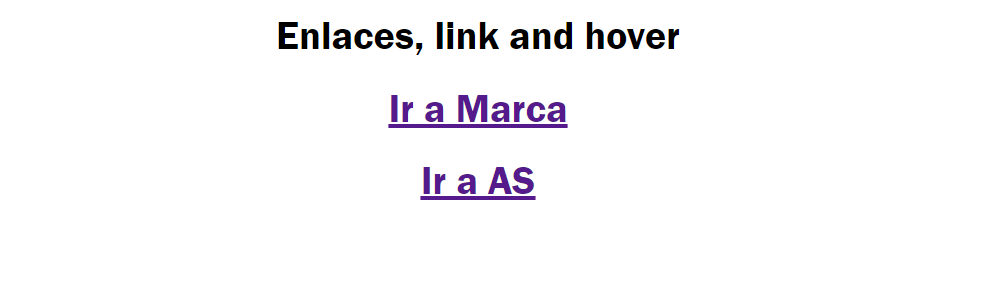
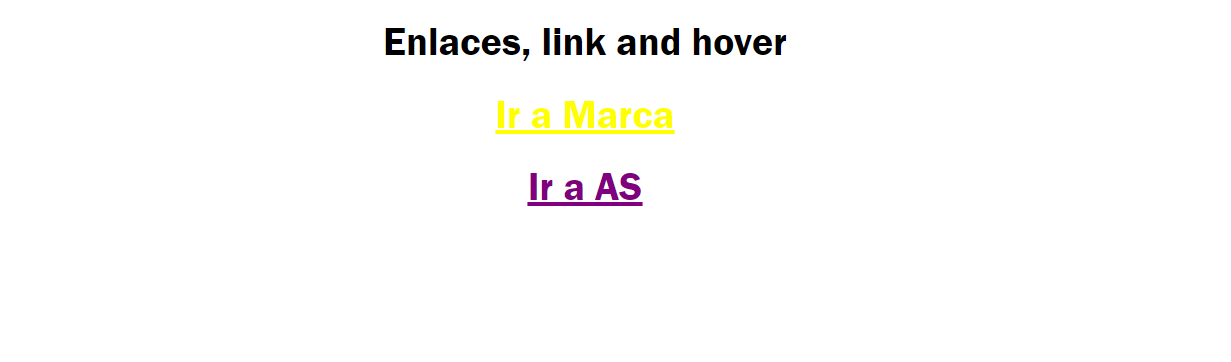
Taller terminado

Changed region(s): [[0.3694, 0.2784, 0.5849, 0.7113], [0.2771, 0.0619, 0.6773, 0.1856]]

diff --git a/punto-9/index-9.html b/punto-9/index-9.html
@@ -1,0 +1,40 @@
+<!DOCTYPE html>
+<html lang="en">
+
+<head>
+    <meta charset="UTF-8">
+    <meta name="viewport" content="width=device-width, initial-scale=1.0">
+    <title>Document</title>
+    <link rel="stylesheet" href="styles/punto-9-styles.css">
+</head>
+
+<body>
+    <div class="Tabla"></div>
+
+    <table border="1">
+        <tr>
+            <th><i>Edad</i></th>
+            <th><i>Peso</i></th>
+        </tr>
+
+        <tr>
+            <td>40</td>
+            <td>78</td>
+        </tr>
+        <tr>
+            <td>53</td>
+            <td>76</td>
+        </tr>
+        <tr>
+            <td colspan="2"> <small>el momento en que entiendo verdaderamente a mi enemigo, en el momento en el que le
+                entiendo lo suficientemente bien <br> como para derrotarle, entonces, en ese preciso instante,tambien le
+                quiero</small> </th>
+        </tr>
+    </div>
+
+    </table>
+
+
+</body>
+
+</html>

diff --git a/punto-6/index-6.html b/punto-6/index-6.html
@@ -9,13 +9,13 @@
 <body>
         <h1>Enlaces, link and hover</h1>
     
-        <a href="https://www.marca.com/">
+        <a style="color: yellow;" href="https://www.marca.com/">
             <div class="Enlace__1"></div>
             <h1>Ir a Marca</h1>
-    </a>
+        </a>
     </div>
     <div class="Enlace__2">
-        <a href="https://colombia.as.com/"><h1>Ir a AS</h1>
+        <a style="color: purple;" href="https://colombia.as.com/"><h1>Ir a AS</h1>
     </div>
 </body>
 </html>

diff --git a/punto-6/styles/punto-6-styles.css b/punto-6/styles/punto-6-styles.css
@@ -1,7 +1,8 @@
 body{
     text-align: center; 
     font-family: 'Franklin Gothic Medium', 'Arial Narrow', Arial, sans-serif;
-    
+    height: 200px;
+    flex-direction: column;
 }
 .Enlace__1{
     color: yellow;

diff --git a/punto-9/styles/punto-9-styles.css b/punto-9/styles/punto-9-styles.css
@@ -1,0 +1,8 @@
+table{
+    margin: 0px 200px;
+    border-collapse: collapse;
+    background-color: yellow;
+}
+th{
+    color: red;
+}

diff --git a/README.md b/README.md
@@ -28,4 +28,4 @@
 <img src="./public/images/punto 7-8.png" alt="Punto 7-8">
 
 <h2> Punto 9: Tablas </h2>
-<img src="./public/images/" alt="Punto 9">
+<img src="./public/images/punto 9.png" alt="Punto 9">
